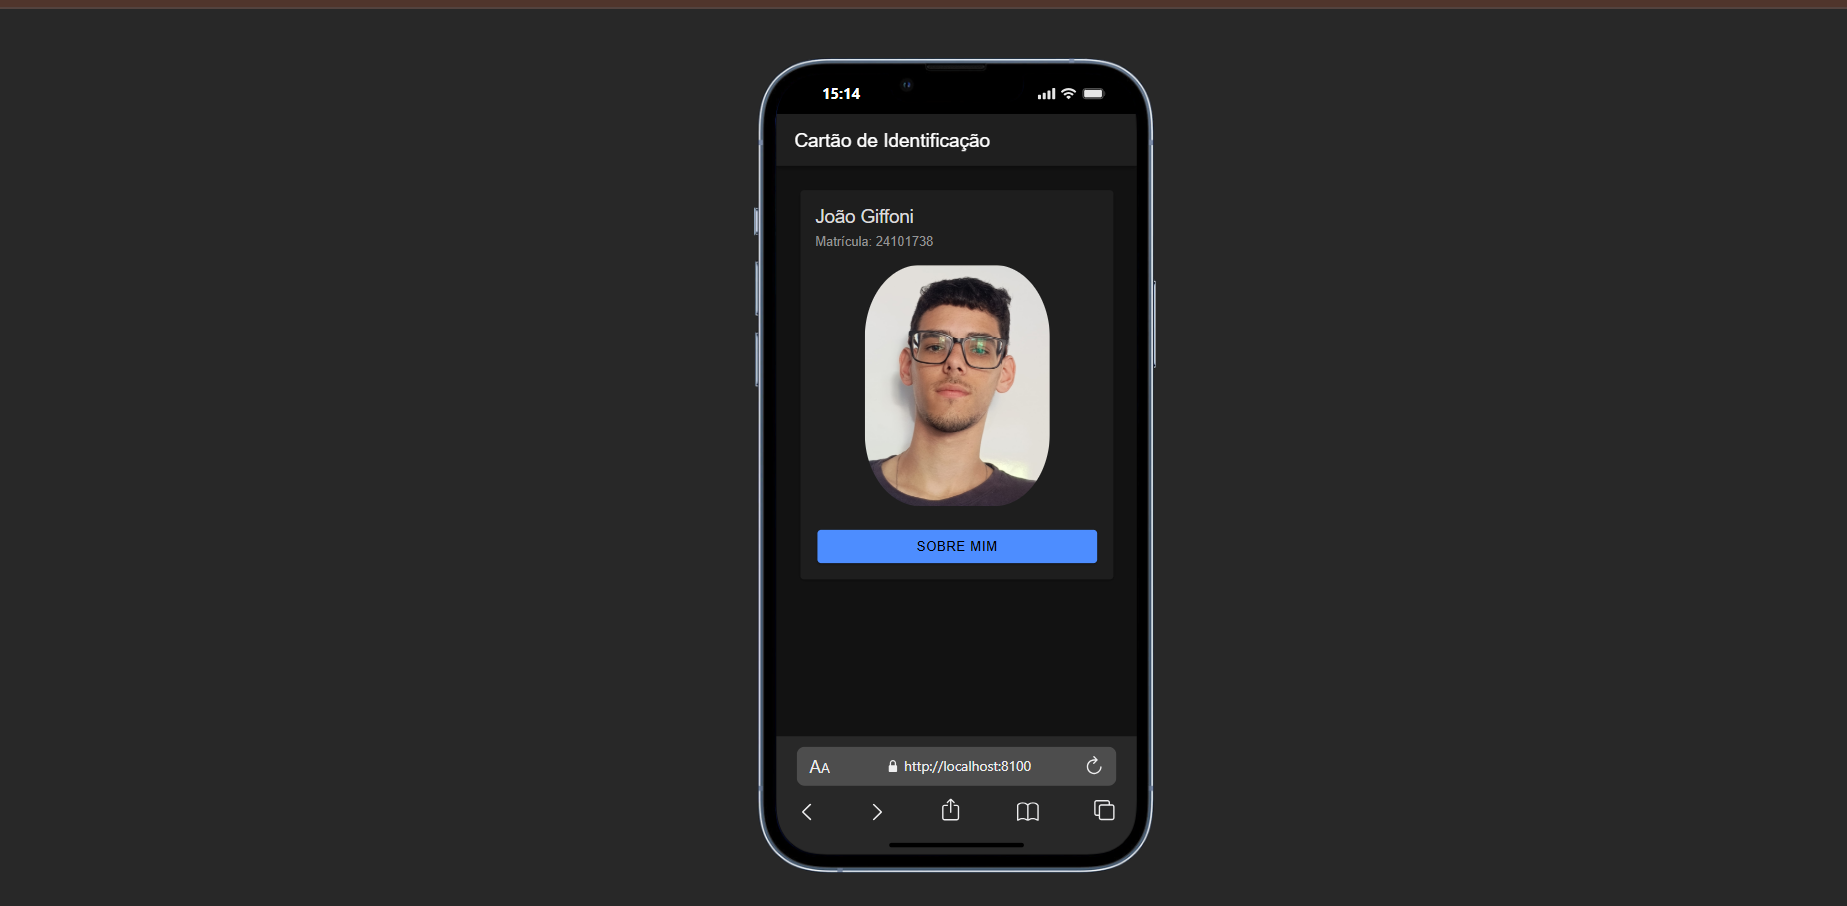
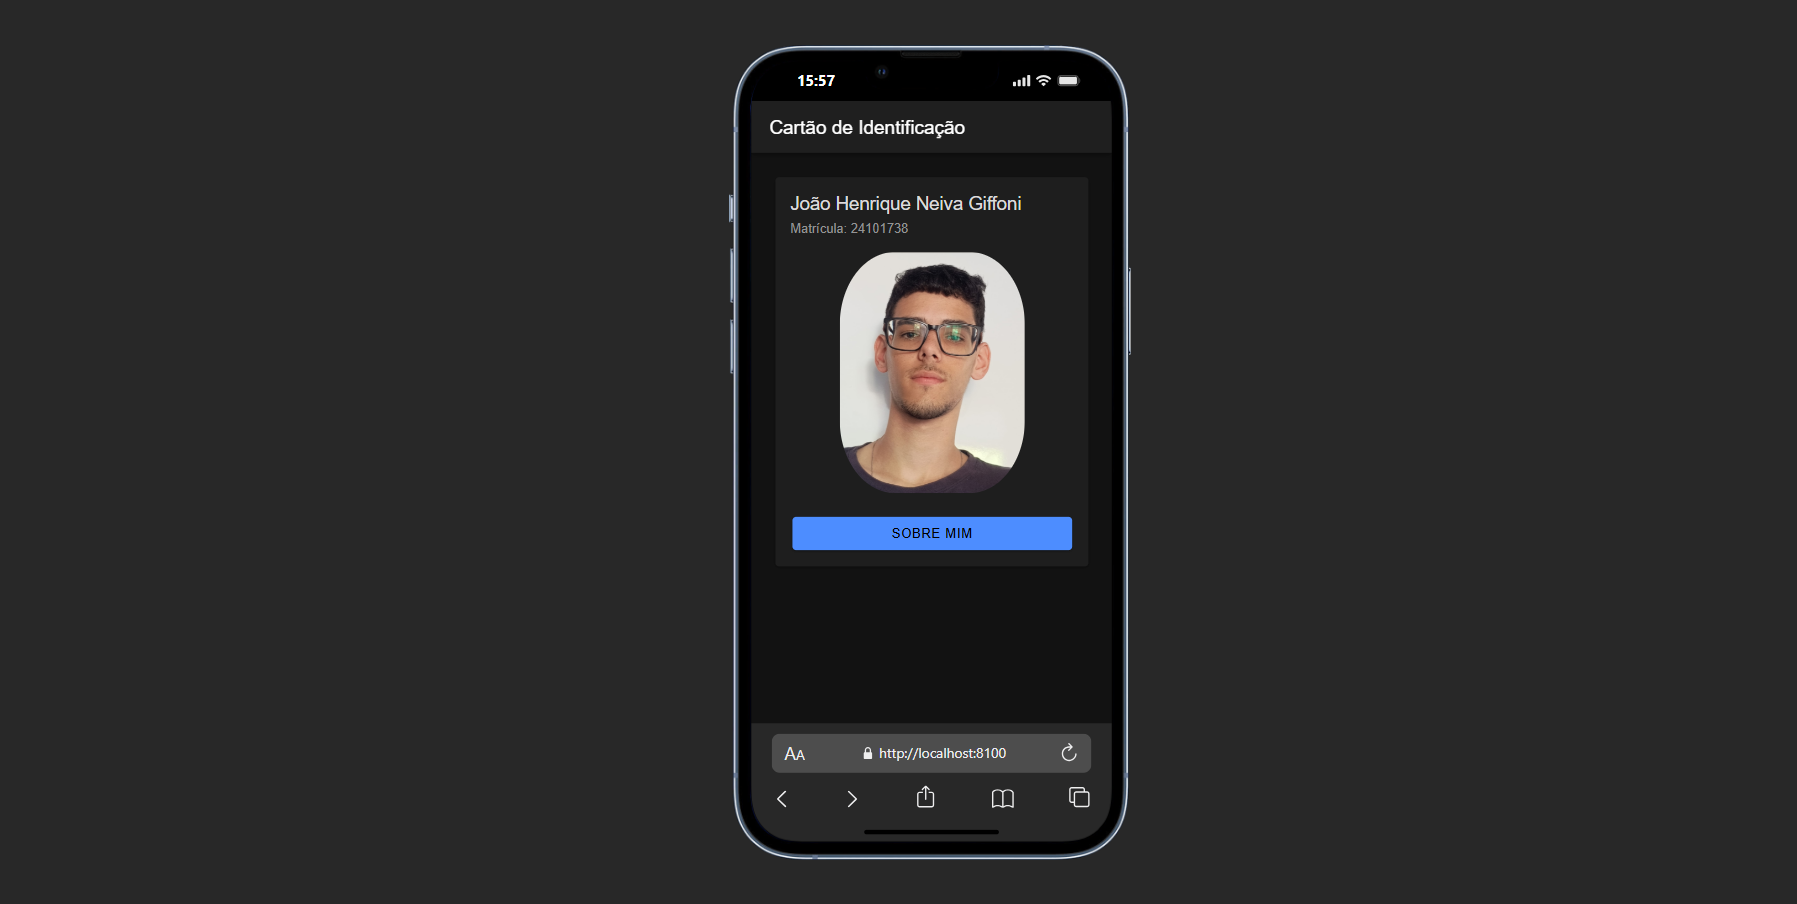
atualizando

Changed region(s): [[0.0, 0.0, 1.0, 0.9912]]

diff --git a/Avaliação-formadora-1/ionic/src/app/sobre/sobre.page.html b/Avaliação-formadora-1/ionic/src/app/sobre/sobre.page.html
@@ -8,7 +8,7 @@
 
   <ion-card>
     <ion-card-header>
-      <ion-card-title>João Giffoni</ion-card-title>
+      <ion-card-title>João Henrique Neiva Giffoni</ion-card-title>
       <ion-card-subtitle>21 anos • Rio de Janeiro</ion-card-subtitle>
     </ion-card-header>
 

diff --git a/Avaliação-formadora-1/ionic/src/app/home/home.page.html b/Avaliação-formadora-1/ionic/src/app/home/home.page.html
@@ -10,7 +10,7 @@
 
   <ion-card>
     <ion-card-header>
-      <ion-card-title>João Giffoni</ion-card-title>
+      <ion-card-title>João Henrique Neiva Giffoni</ion-card-title>
       <ion-card-subtitle>Matrícula: 24101738</ion-card-subtitle>
     </ion-card-header>
 
